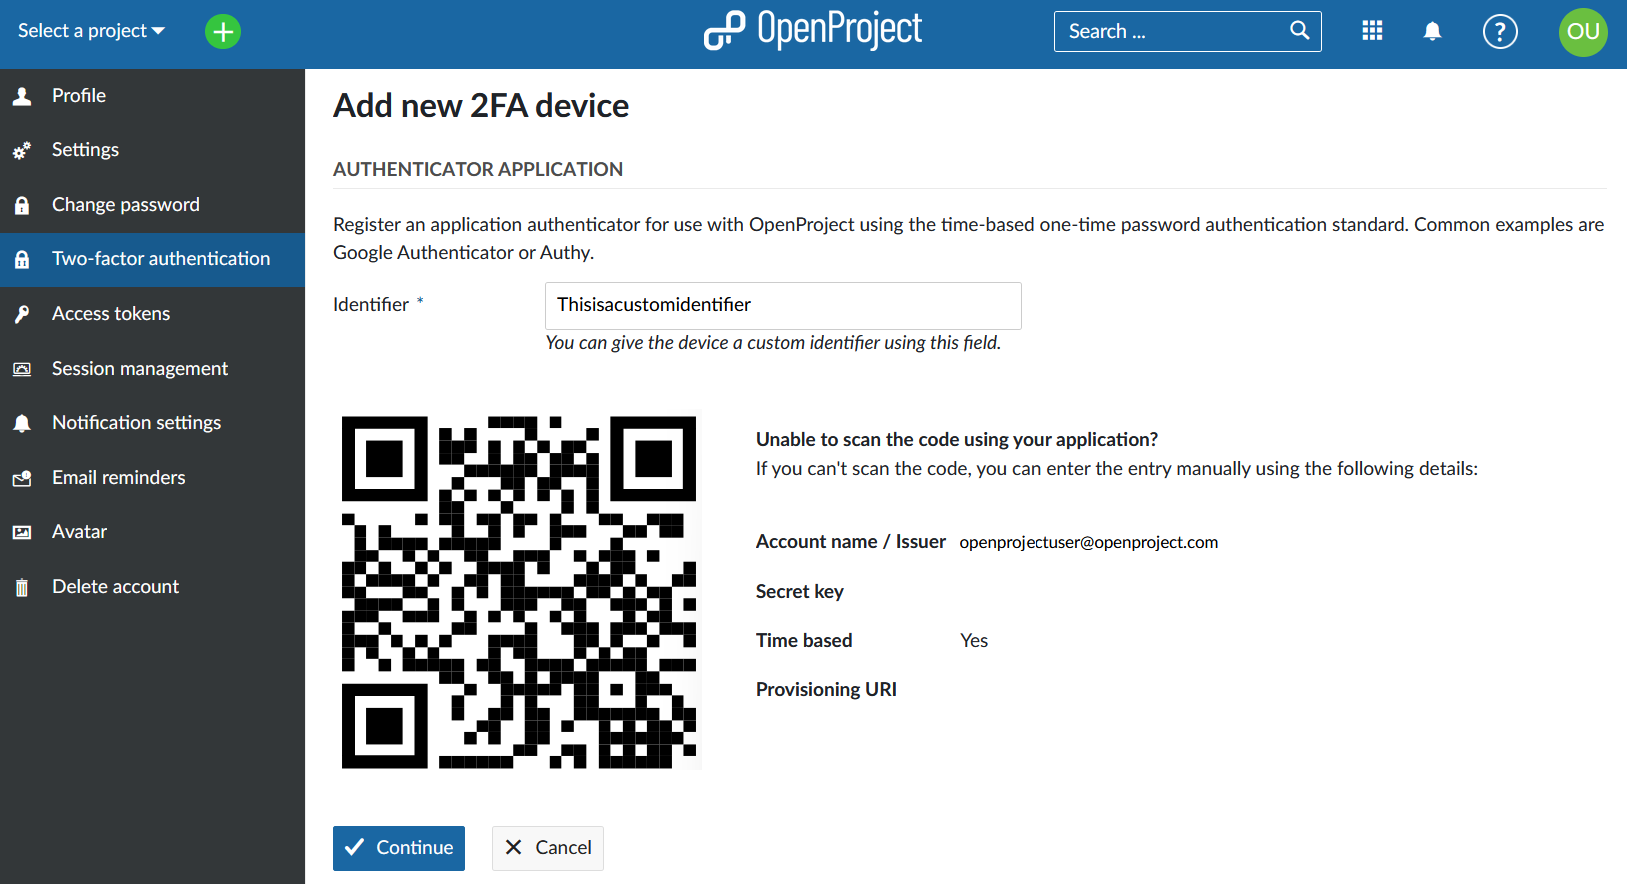
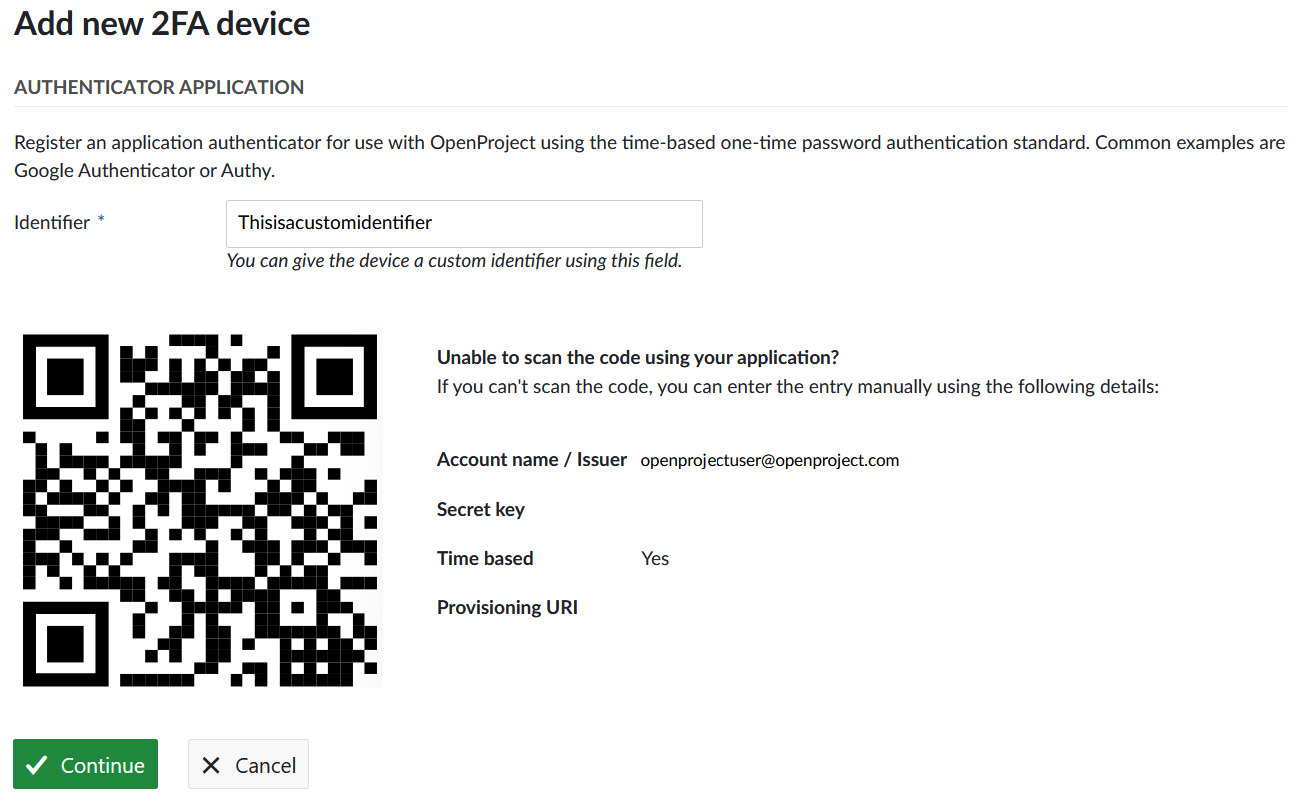
Mention WebAuthn in the docs (#14982)
* Mention WebAuthn in the docs

* Update 2FA documentation

Adding WebAuth option to the user guide
Adding mobile option to the user guide
Exchanging screenshots to reflect latest primer changes

* Fixing a link

---------

diff --git a/docs/getting-started/my-account/README.md b/docs/getting-started/my-account/README.md
@@ -104,21 +104,32 @@ Press the blue **Save** button in order to confirm the password changes.
 
 ## Two-factor authentication
 
-In order to activate the two-factor authentication for your OpenProject installation, navigate to your **My account** and choose the **Two-factor authentication** in the menu.
+In order to activate the two-factor authentication for your OpenProject installation, navigate to your **My account** and choose the **Two-factor authentication** in the menu. If you have not added any device yet, this list will be empty. 
 
 ![OpenProject my account two_factor authentication](openproject_my_account_two_factor_authentication.png)
 
-In order to register a new device for two-factor authentication, click the green button to add a **new 2FA device**.
+If you have already registered one or multiple 2FA devices, you will see the list of all activated 2FA devices here. You can change, which of them you prefer to have set a a default option.
+
+![List of all registered 2FA devices in OpenProject](openproject_my_account_2fa_overview.png)
+
+In order to register a new device for two-factor authentication, click the green button to add a **new 2FA device**. You will see the screen, where you will be able to see one or multiple of the following options, depending on what your system administrator has [activated for your instance](../../system-admin-guide/authentication/two-factor-authentication/): 
+
+- Mobile phone
+- App-based authenticator
+- WebAuth
+
+![](openproject_my_account_authentication_options.png)
 
 To receive the second factor, you can use an authentication app on your mobile phone, such as Google Authenticator or Authy. You have to enter the code that is displayed in the authentication app to your login.
 
 You can remove or approve 2FA applications by confirming your password. Note that this applies only to internally authenticated users.
 
-### Backup codes
+### Use your mobile phone
 
-If you are unable to access your two-factor devices, you can use a backup code to regain access to your account. Use the grey button **Generate backup codes** to generate a new set of backup codes.
+You can use your mobile phone as a 2FA device. The field *Identifier* will be pre-filled out, you will need to add your phone number and click the green **Continue** button. 
 
-If you have created backup codes before, they will be invalidated and will no longer work.
+![Add a new mobile phone as a 2FA device in OpenProject](openproject_my_account_two_factor_authentication_mobile.png)
+
 
 ### Use your app-based authenticator
 
@@ -126,9 +137,23 @@ Register an application authenticator for use with OpenProject using the time-ba
 
 Click the grey **Register device** button to register an authentication app. Open your app and follow the instructions to add a new application. The easiest way is to scan the QR code. Otherwise, you can register the application manually by entering the displayed details.
 
-Click the blue **Continue** button to finish the registration.
+Click the green **Continue** button to finish the registration.
 
 ![openproject_my_account_authenticator_app](openproject_my_account_authenticator_app.png)
+
+### Use the WebAuth authentication
+
+Use Web Authentication to register a FIDO2 device (like a YubiKey) or  the secure enclave of your mobile device as a second factor. After you have chosen a name, you can click the green **Continue**  button. 
+
+![](openproject_my_account_authenticator_webauth.png)
+
+Your  browser will prompt you to present your WebAuthn device (depending on your operational system and your browser, your options may vary). When you have  done so, you are done registering the device.
+
+### Backup codes
+
+If you are unable to access your two-factor devices, you can use a backup code to regain access to your account. Use the grey button **Generate backup codes** to generate a new set of backup codes.
+
+If you have created backup codes before, they will be invalidated and will no longer work.
 
 ## Access tokens
 To view and manage your OpenProject access tokens navigate to **My account** and choose **Access tokens** from the menu. 

diff --git a/docs/installation-and-operations/configuration/README.md b/docs/installation-and-operations/configuration/README.md
@@ -424,7 +424,7 @@ OPENPROJECT_OVERRIDE__BCRYPT__COST__FACTOR="16"
 
 ## Database configuration and SSL
 
-Please see [this separate guide](./database/) on how to set a custom database connection string and optionally, require SSL/TTLS verification. 
+Please see [this separate guide](./database/) on how to set a custom database connection string and optionally, require SSL/TTLS verification.
 
 ## disable password login
 
@@ -589,7 +589,7 @@ You can optionally enable additional rules on API rate limiting as follows:
 
 `OPENPROJECT_RATE_LIMITING_API__V3=true`
 
-Additional application-level rate limiting rules will be added in the future. Additionally to these application level rules, use your load balancer / proxying web server to apply individual rate limiting rules using modules such as `ngx_http_limit_req_module` or `mod_security`. 
+Additional application-level rate limiting rules will be added in the future. Additionally to these application level rules, use your load balancer / proxying web server to apply individual rate limiting rules using modules such as `ngx_http_limit_req_module` or `mod_security`.
 
 ### Blacklisted routes
 
@@ -758,7 +758,7 @@ OPENPROJECT_2FA_ENFORCED="true"
 
 **Setting available strategies**
 
-By default, the TOTP strategy for phone authenticator apps is active.
+By default, the TOTP and WebAuthn strategie are active.
 
 If you have a [MessageBird account](https://www.messagebird.com/), you can setup a SMS 2FA by activating that strategy like so:
 

diff --git a/docs/system-admin-guide/authentication/two-factor-authentication/README.md b/docs/system-admin-guide/authentication/two-factor-authentication/README.md
@@ -36,8 +36,14 @@ By default, the allowed clock skew (difference in seconds between client and ser
 If you are trying to register a new device and keep getting failures even though the code appears correct,
 time drift between the device and the server is most likely the reason for it.
 
+## Basic 2FA using WebAuthn
+
+[WebAuthn](https://www.w3.org/TR/2019/REC-webauthn-1-20190304/) is a W3C standard for authentication on the web. It uses private-public key cryptography to verify the users identity. The private key is either secured on a hardware token or within the browser or a password manager.
+
+WebAuthn is supported by most modern browsers and is therefore enabled by default in OpenProject when 2FA is enabled.
+
 ## Advanced 2FA using MessageBird, Amazon SNS
 
-At the moment the advanced settings for improved security are only reachable on the by defining [configuration variables](../../../installation-and-operations/configuration/).
+At the moment the advanced settings for improved security are only reachable by defining [configuration variables](../../../installation-and-operations/configuration/).
 
-The how to is explained in the  configuration is explained in the [Two-factor authentication](../../../installation-and-operations/configuration/#two-factor-authentication) paragraph.
+Those methods are explained in the [Two-factor authentication](../../../installation-and-operations/configuration/#two-factor-authentication) paragraph.

diff --git a/docs/security-and-privacy/statement-on-security/README.md b/docs/security-and-privacy/statement-on-security/README.md
@@ -80,7 +80,7 @@ Admins can set a specific session duration in the system administration, so that
 
 ### Two-factor authentication
 
-Secure your authentication mechanisms with a second factor by TOTP standard (or SMS, depending on your instance) to be entered by users upon logging in.
+Secure your authentication mechanisms with a second factor by TOTP and WebAuthn standards (or SMS, depending on your instance) to be provided by users upon logging in.
 
 ### Security badge
 
